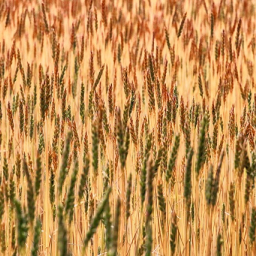
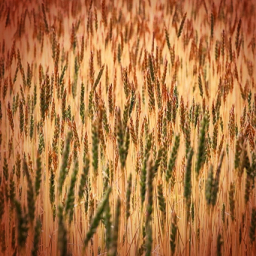
added an ocean and some shading to wheat texture

diff --git a/asgn3/src/asgn3.js b/asgn3/src/asgn3.js
@@ -34,6 +34,9 @@ var FSHADER_SOURCE =
       gl_FragColor = texture2D(u_Sampler1, v_UV);
     } else if (u_whichTexture == 2) {
       gl_FragColor = texture2D(u_Sampler2, v_UV);
+    } else if (u_whichTexture == 3) {
+      vec4 color1 = texture2D(u_Sampler0, v_UV);
+      gl_FragColor = color1 * u_FragColor;
     } else {
       gl_FragColor = vec4(1, .2, .2, 1); // Error, reddish
     }
@@ -359,6 +362,8 @@ let g_foxX = ((Math.random()*100)%g_size/4)-1;
 let g_foxZ = ((Math.random()*100)%g_size/4)-1;
 let g_addedElements = [];
 
+let g_foundFox = false;
+
 perlin.seed();
 let g_map = [];
 for (let x = 0; x < 1; x += 1/g_size) {
@@ -384,7 +389,7 @@ function drawMap() {
       let body = new Cube();
       body.textureNum = 1;
       body.color = [1, 1, 1, 1];
-      body.matrix.setTranslate(0, -g_size/4, 0);
+      body.matrix.setTranslate(0, -g_size/3, 0);
       body.matrix.translate(x-g_size/2, g_map[x][y], y-g_size/2);
       body.render();
     }
@@ -434,12 +439,16 @@ function renderAllShapes() {
     sky.matrix.translate(-0.5, -0.5, -0.500001);
     sky.render();
 
-    let bear = new Bear();
-    bear.render();
-
     g_OBJ.model_matrix.setTranslate(1, 1, 1);
     g_OBJ.model_matrix.translate(g_foxX, g_foxY, g_foxZ);
     g_OBJ.render();
+
+    let ocean = new Cube();
+    ocean.color = [68/256, 109/256, 154/256, 1];
+    ocean.textureNum = -2;
+    ocean.matrix.scale(g_size, g_size, g_size);
+    ocean.matrix.translate(-0.500001, -1.2+(0.1)*(Math.sin(g_seconds)), -0.500002);
+    ocean.render();
 
     let duration = performance.now() - startTime;
     sendTextToHTML(" ms: " + Math.floor(duration) + " fps: " + Math.floor(10000/duration), "fps");
@@ -502,7 +511,7 @@ function keydown(ev) {
     g_camera.moveUp();
   } else if (ev.keyCode==67) { // c
     g_camera.moveDown();
-  } else if (ev.keyCode==32) {
+  } else if (ev.keyCode==16) {
     g_addedElements.push([Math.round(g_camera.eye.elements[0]), Math.round(g_camera.eye.elements[1]), Math.round(g_camera.eye.elements[2])]);
   } else if (ev.keyCode==13) { // enter 
     g_addedElements.pop();
